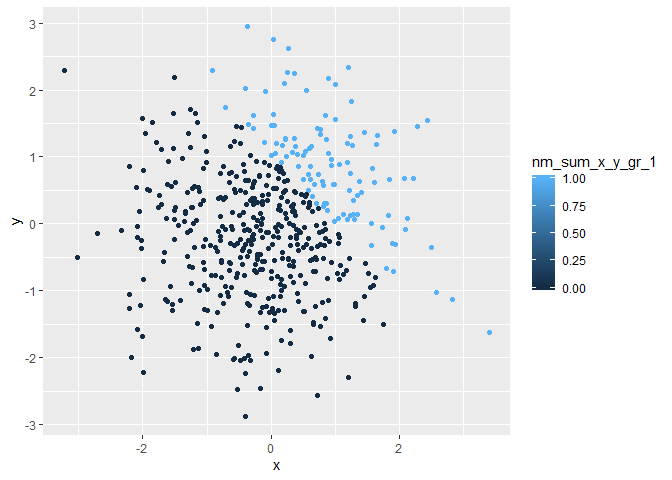
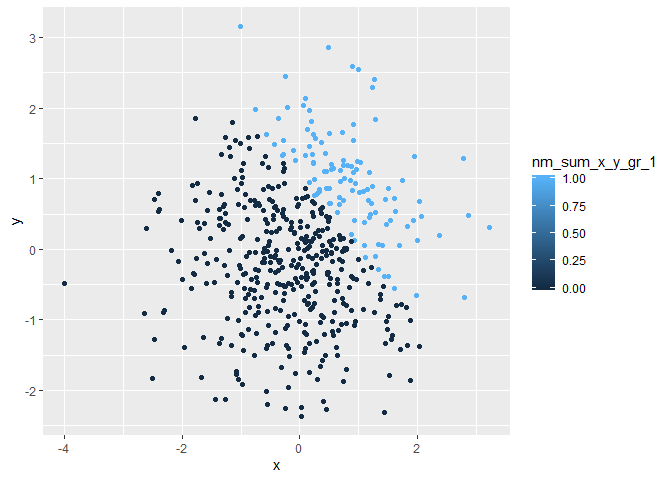
Edit problem 1 text

diff --git a/p8105_hw1_jfh2150.md b/p8105_hw1_jfh2150.md
@@ -48,7 +48,7 @@ df_problem_1 %>%
     ## # A tibble: 1 x 4
     ##   nm_random_sample lg_sample_gr_0 ch_vector ft_vector
     ##              <dbl>          <dbl>     <dbl>     <dbl>
-    ## 1           0.0584            0.5        NA        NA
+    ## 1           0.0299            0.5        NA        NA
 
 Applying the `as.numeric` function to the non-numeric variables in the
 data frame successfully converts all 3 vectors to numeric in my example.
@@ -59,9 +59,9 @@ converted to numeric because of my choice of characters (`"1", "2", ...
 ,"8"`). Had this vector contained values like `"blue"` or `"one"` the
 coercion would have failed, but characters that contain numbers can be
 converted to numeric. Finally, the factor variable was also successfully
-converted to numeric because of its underlying level structure. R treats
-factor levels as numeric, so it is possible to convert the character
-values to numbers according to their levels.
+converted to numeric because of its underlying structure. R stores
+factors as numeric values mapped to the character level values, so it is
+possible to convert the character values back to numbers.
 
 These results confirm a few findings from the mean calculations above.
 Firstly, that logical values can be and are coerced to numeric by the
@@ -99,8 +99,8 @@ nm_random_sample = df_problem_1 %>%
 nm_converted_vector * nm_random_sample
 ```
 
-    ## [1] 0.00000000 0.00000000 1.60381962 1.19794620 0.08131405 0.00000000
-    ## [7] 0.47049455 0.00000000
+    ## [1] 0.0000000 1.2192443 1.4269809 0.0000000 0.0000000 0.4946278 0.0000000
+    ## [8] 0.8917137
 
 ``` r
 # (b)
@@ -128,8 +128,8 @@ nm_reconverted_vector = ft_converted_vector %>%
 nm_reconverted_vector * nm_random_sample
 ```
 
-    ## [1] -0.9492646 -0.4491523  3.2076392  2.3958924  0.1626281 -0.4994982
-    ## [7]  0.9409891 -0.9888169
+    ## [1] -1.8246707  2.4384886  2.8539617 -0.7021587 -0.4806144  0.9892557
+    ## [7] -0.7859429  1.7834274
 
 ## Problem 2
 
@@ -150,8 +150,8 @@ and the second two were created by coercing that vector to numeric and
 factor types.
 
 The data frame is thus comprised of 500 rows and 5 columns. Column `x`
-has a mean of 0.092937, a median of 0.0911638, and standard deviation of
-1.0098029. The proportion of cases where `x + y > 1` is 0.284.
+has a mean of -0.0211638, a median of 0.0715039, and standard deviation
+of 1.0041913. The proportion of cases where `x + y > 1` is 0.226.
 
 The scatterplots displayed below show `x` plotted against `y`. In each
 plot, the points are colored by one of the three indicators.
